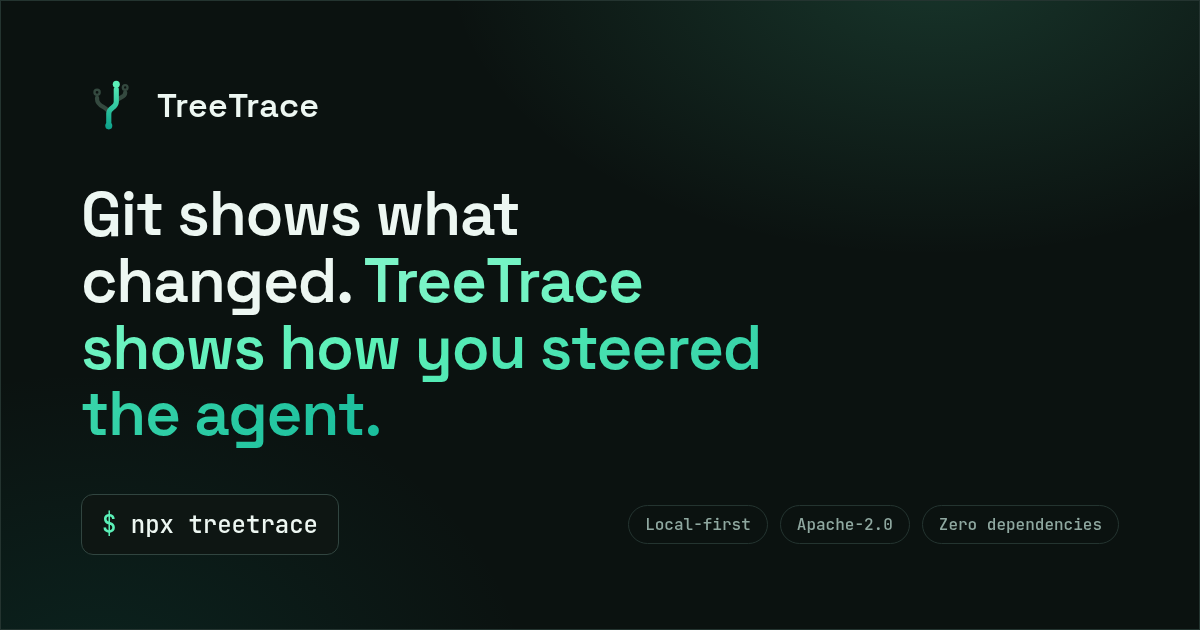
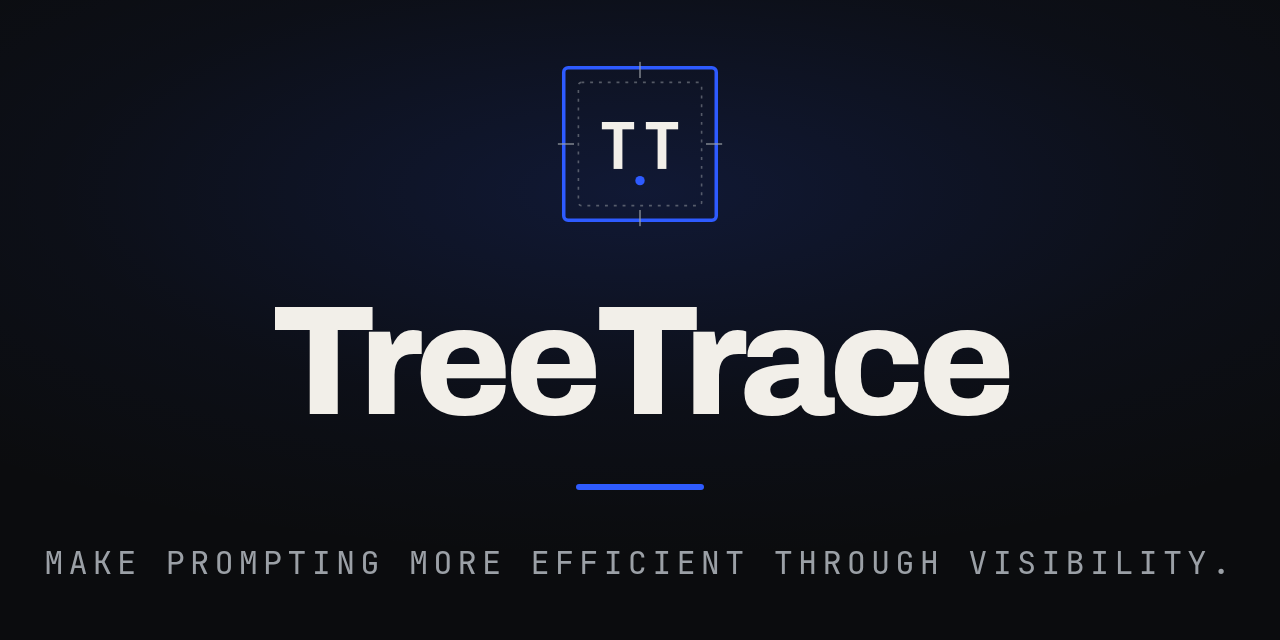
Rebrand to cobalt evidence-terminal identity
New custody-stamp logo, cobalt #2E5BFF palette, refreshed README and
action.yml branding, and a regenerated social preview. Retires the prior
green/tree visual identity.

diff --git a/README.md b/README.md
@@ -12,14 +12,14 @@
 <p><i>Local-first security regression for AI coding agents.</i></p>
 
 <p>
-  <a href="https://www.npmjs.com/package/treetrace"><img alt="npm" src="https://img.shields.io/npm/v/treetrace?style=flat-square&label=npm&color=0CA08A&labelColor=0B1210"></a>
-  <a href="https://github.com/TreeTraceTool/TreeTrace/actions/workflows/ci.yml"><img alt="ci" src="https://img.shields.io/github/actions/workflow/status/TreeTraceTool/TreeTrace/ci.yml?branch=main&style=flat-square&label=ci&color=0CA08A&labelColor=0B1210"></a>
-  <a href="LICENSE"><img alt="license" src="https://img.shields.io/badge/license-Apache%202.0-0CA08A?style=flat-square&labelColor=0B1210"></a>
-  <img alt="node" src="https://img.shields.io/badge/node-%E2%89%A518-0CA08A?style=flat-square&labelColor=0B1210">
-  <img alt="dependencies" src="https://img.shields.io/badge/dependencies-0-0CA08A?style=flat-square&labelColor=0B1210">
-  <img alt="local-first" src="https://img.shields.io/badge/local--first-no_telemetry-0CA08A?style=flat-square&labelColor=0B1210">
-  <a href="#accuracy"><img alt="accuracy" src="https://img.shields.io/badge/blind--holdout_F1-0.93-0CA08A?style=flat-square&labelColor=0B1210"></a>
-  <img alt="tests" src="https://img.shields.io/badge/tests-166%2F0-0CA08A?style=flat-square&labelColor=0B1210">
+  <a href="https://www.npmjs.com/package/treetrace"><img alt="npm" src="https://img.shields.io/npm/v/treetrace?style=flat-square&label=npm&color=2E5BFF&labelColor=0B0C0E"></a>
+  <a href="https://github.com/TreeTraceTool/TreeTrace/actions/workflows/ci.yml"><img alt="ci" src="https://img.shields.io/github/actions/workflow/status/TreeTraceTool/TreeTrace/ci.yml?branch=main&style=flat-square&label=ci&color=2E5BFF&labelColor=0B0C0E"></a>
+  <a href="LICENSE"><img alt="license" src="https://img.shields.io/badge/license-Apache%202.0-2E5BFF?style=flat-square&labelColor=0B0C0E"></a>
+  <img alt="node" src="https://img.shields.io/badge/node-%E2%89%A518-2E5BFF?style=flat-square&labelColor=0B0C0E">
+  <img alt="dependencies" src="https://img.shields.io/badge/dependencies-0-2E5BFF?style=flat-square&labelColor=0B0C0E">
+  <img alt="local-first" src="https://img.shields.io/badge/local--first-no_telemetry-2E5BFF?style=flat-square&labelColor=0B0C0E">
+  <a href="#accuracy"><img alt="accuracy" src="https://img.shields.io/badge/blind--holdout_F1-0.93-2E5BFF?style=flat-square&labelColor=0B0C0E"></a>
+  <img alt="tests" src="https://img.shields.io/badge/tests-166%2F0-2E5BFF?style=flat-square&labelColor=0B0C0E">
 </p>
 
 <p>
@@ -36,9 +36,7 @@
 
 <p align="center"><a href="https://treetrace.dev/assets/treetrace-v43.mp4"><img src="https://treetrace.dev/assets/treetrace-v43-poster.jpg" alt="Watch the TreeTrace demo video" width="760"></a></p>
 
-<picture>
-  <img alt="TreeTrace turning a session into a prompt tree, lessons, and redacted output" src="https://raw.githubusercontent.com/TreeTraceTool/TreeTrace/main/.github/assets/demo.gif" width="760">
-</picture>
+<!-- demo.gif intentionally omitted: the in-terminal walkthrough GIF is being regenerated from the recolored promo video. Re-add it here once the cobalt-branded capture is ready. -->
 
 </div>
 